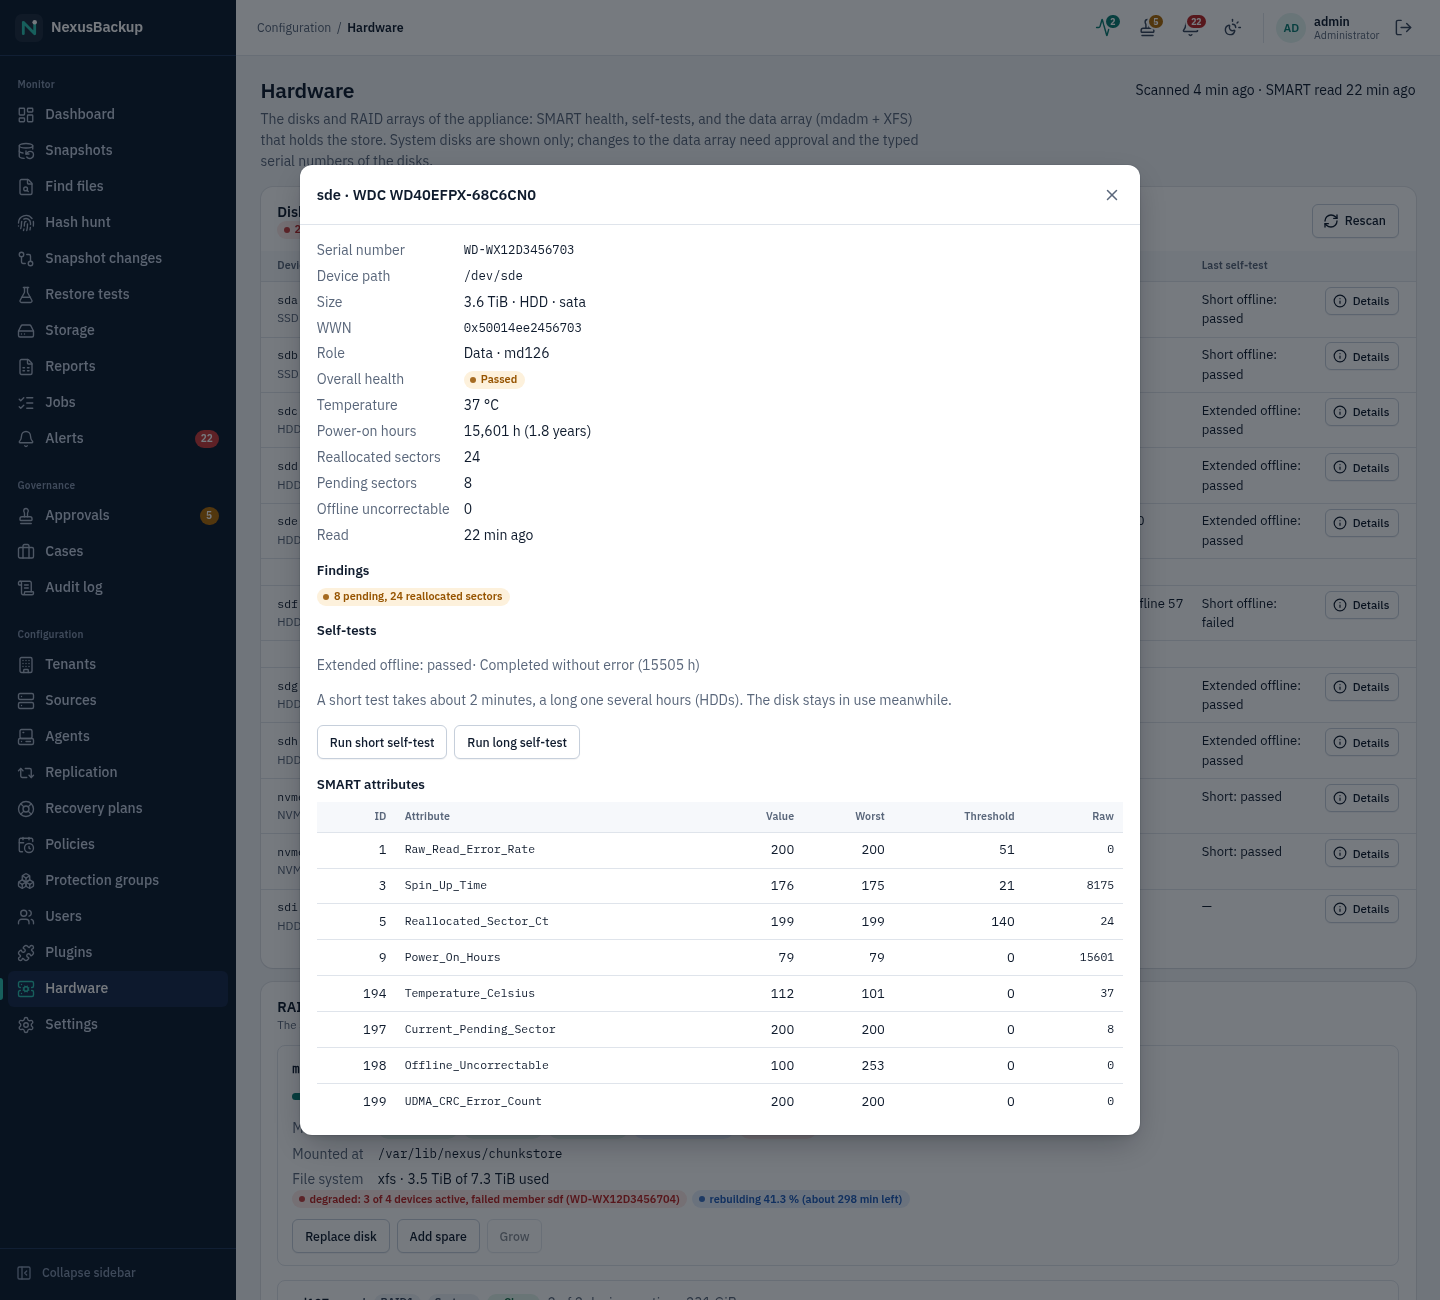
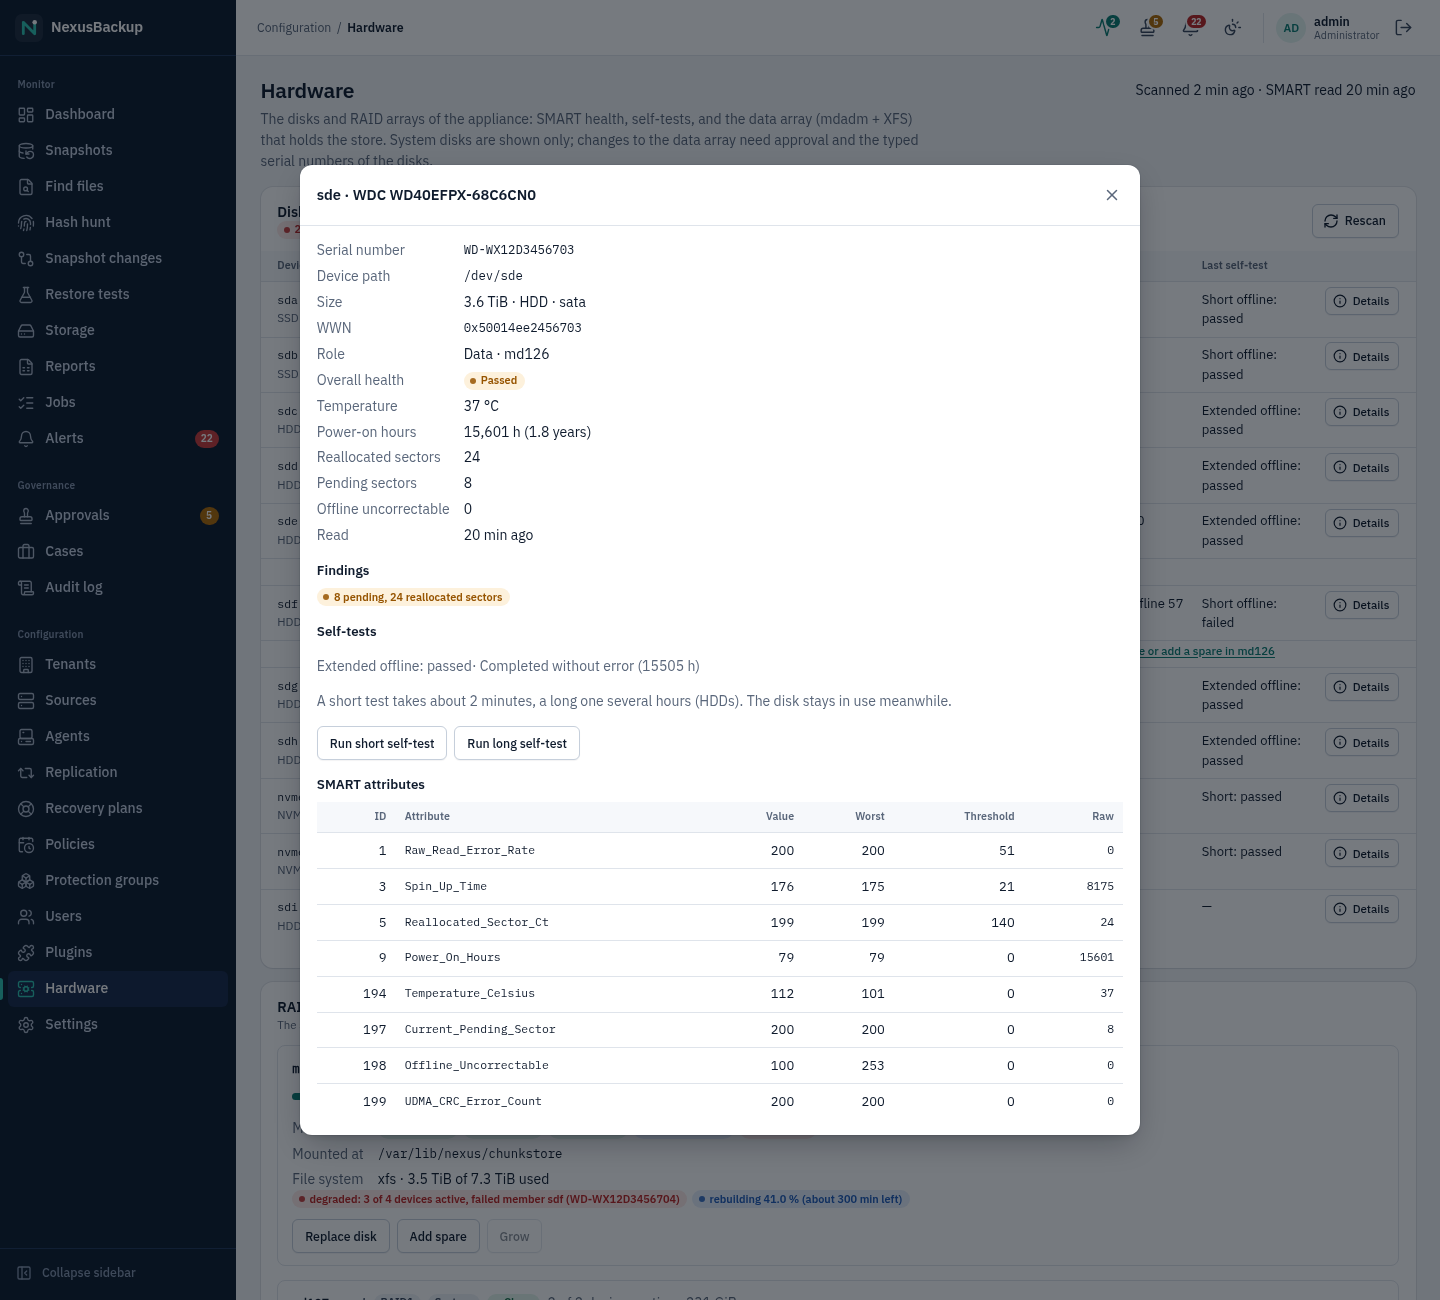
Hardware page: from a failing disk to its array's actions (Phase 39 U1)
The disk table shows a failing member, but Replace disk and Add spare sit in
the array card further down. The array name in a disk row and a link in the
issues row of a data-array member with warnings or errors now scroll to that
card and focus its first action.

diff --git a/web/src/pages/Hardware.svelte b/web/src/pages/Hardware.svelte
@@ -129,6 +129,12 @@
     (hw?.disks ?? []).filter((d) => d.role === 'empty' && d.serial && (!a?.used_dev_size || d.size >= a.used_dev_size));
   const diskLabel = (d: HwDisk) => t.hw.diskOption(d.name, d.model ?? '?', d.serial ?? '?', fmtBytes(d.size));
   const managed = (a: HwArray) => a.role === 'data' || a.role === 'metadata';
+  // U1: from a disk row to its array's card (replace, spare) below
+  function toArray(name: string) {
+    const el = document.getElementById(`hw-a-${name}`)?.closest('article');
+    el?.scrollIntoView({ block: 'start', behavior: 'smooth' });
+    el?.querySelector('button')?.focus({ preventScroll: true });
+  }
   const growable = (a: HwArray) => (a.level === 'raid5' || a.level === 'raid6') && a.state === 'clean' && !a.degraded;
   function openOp(kind: OpKind, a: HwArray) {
     opKind = kind;
@@ -286,7 +292,9 @@
                   <span class="chip {roleCls[d.role] ?? 'plain'}" title={t.hw.roleHints[d.role]}
                     >{t.hw.roles[d.role] ?? d.role}</span
                   >
-                  {#if d.array}<div class="muted small mono">{d.array}</div>{/if}
+                  {#if d.array}<div class="small mono">
+                      <button type="button" class="link" onclick={() => toArray(d.array!)}>{d.array}</button>
+                    </div>{/if}
                   {#if d.why}<div class="muted small">{d.why}</div>{/if}
                 </td>
                 <td><span class="chip {h.cls}">{h.text}</span></td>
@@ -308,6 +316,11 @@
                   <td colspan="9">
                     <div class="issues">
                       {#each d.issues as i, n (n)}<span class="chip {sevCls[i.severity]}">{i.message}</span>{/each}
+                      {#if d.array && d.issues.some((i) => i.severity !== 'info') && hw.arrays.some((a) => a.name === d.array && managed(a))}
+                        <button type="button" class="link small" onclick={() => toArray(d.array!)}
+                          >{t.hw.toArray(d.array)}</button
+                        >
+                      {/if}
                     </div>
                   </td>
                 </tr>

diff --git a/web/src/lib/i18n.ts b/web/src/lib/i18n.ts
@@ -2920,6 +2920,7 @@ export const en = {
     temp: 'Temperature',
     keyAttrs: 'Key attributes',
     selfTest: 'Last self-test',
+    toArray: (a: string) => `Replace or add a spare in ${a}`,
     details: 'Details',
     detailsLabel: (d: string) => `SMART details of ${d}`,
     types: { hdd: 'HDD', ssd: 'SSD', nvme: 'NVMe' } as Record<string, string>,

diff --git a/plan.md b/plan.md
@@ -1213,7 +1213,8 @@ state.md and commits.
   `config_backup:<tenant>:2`, own row in Settings) (Phase 30).
 
 **Web UI**
-- U1 In-depth review of the Plugins, Hardware, Quorum and Search pages (UI polish 2026-10-14).
+- U1 In-depth review of the Plugins, Hardware, Quorum and Search pages (UI polish 2026-10-14). 2026-10-21: Hardware
+  disk rows link to their array card (replace, spare); Search got the owner filter (C2); Plugins reviewed, no change.
 
 **Release and CI**
 - R1 Maintainer: sign and publish the v0.1.0-alpha draft (digest sha256:176c25e7...) (Release 0.1.0-alpha).
